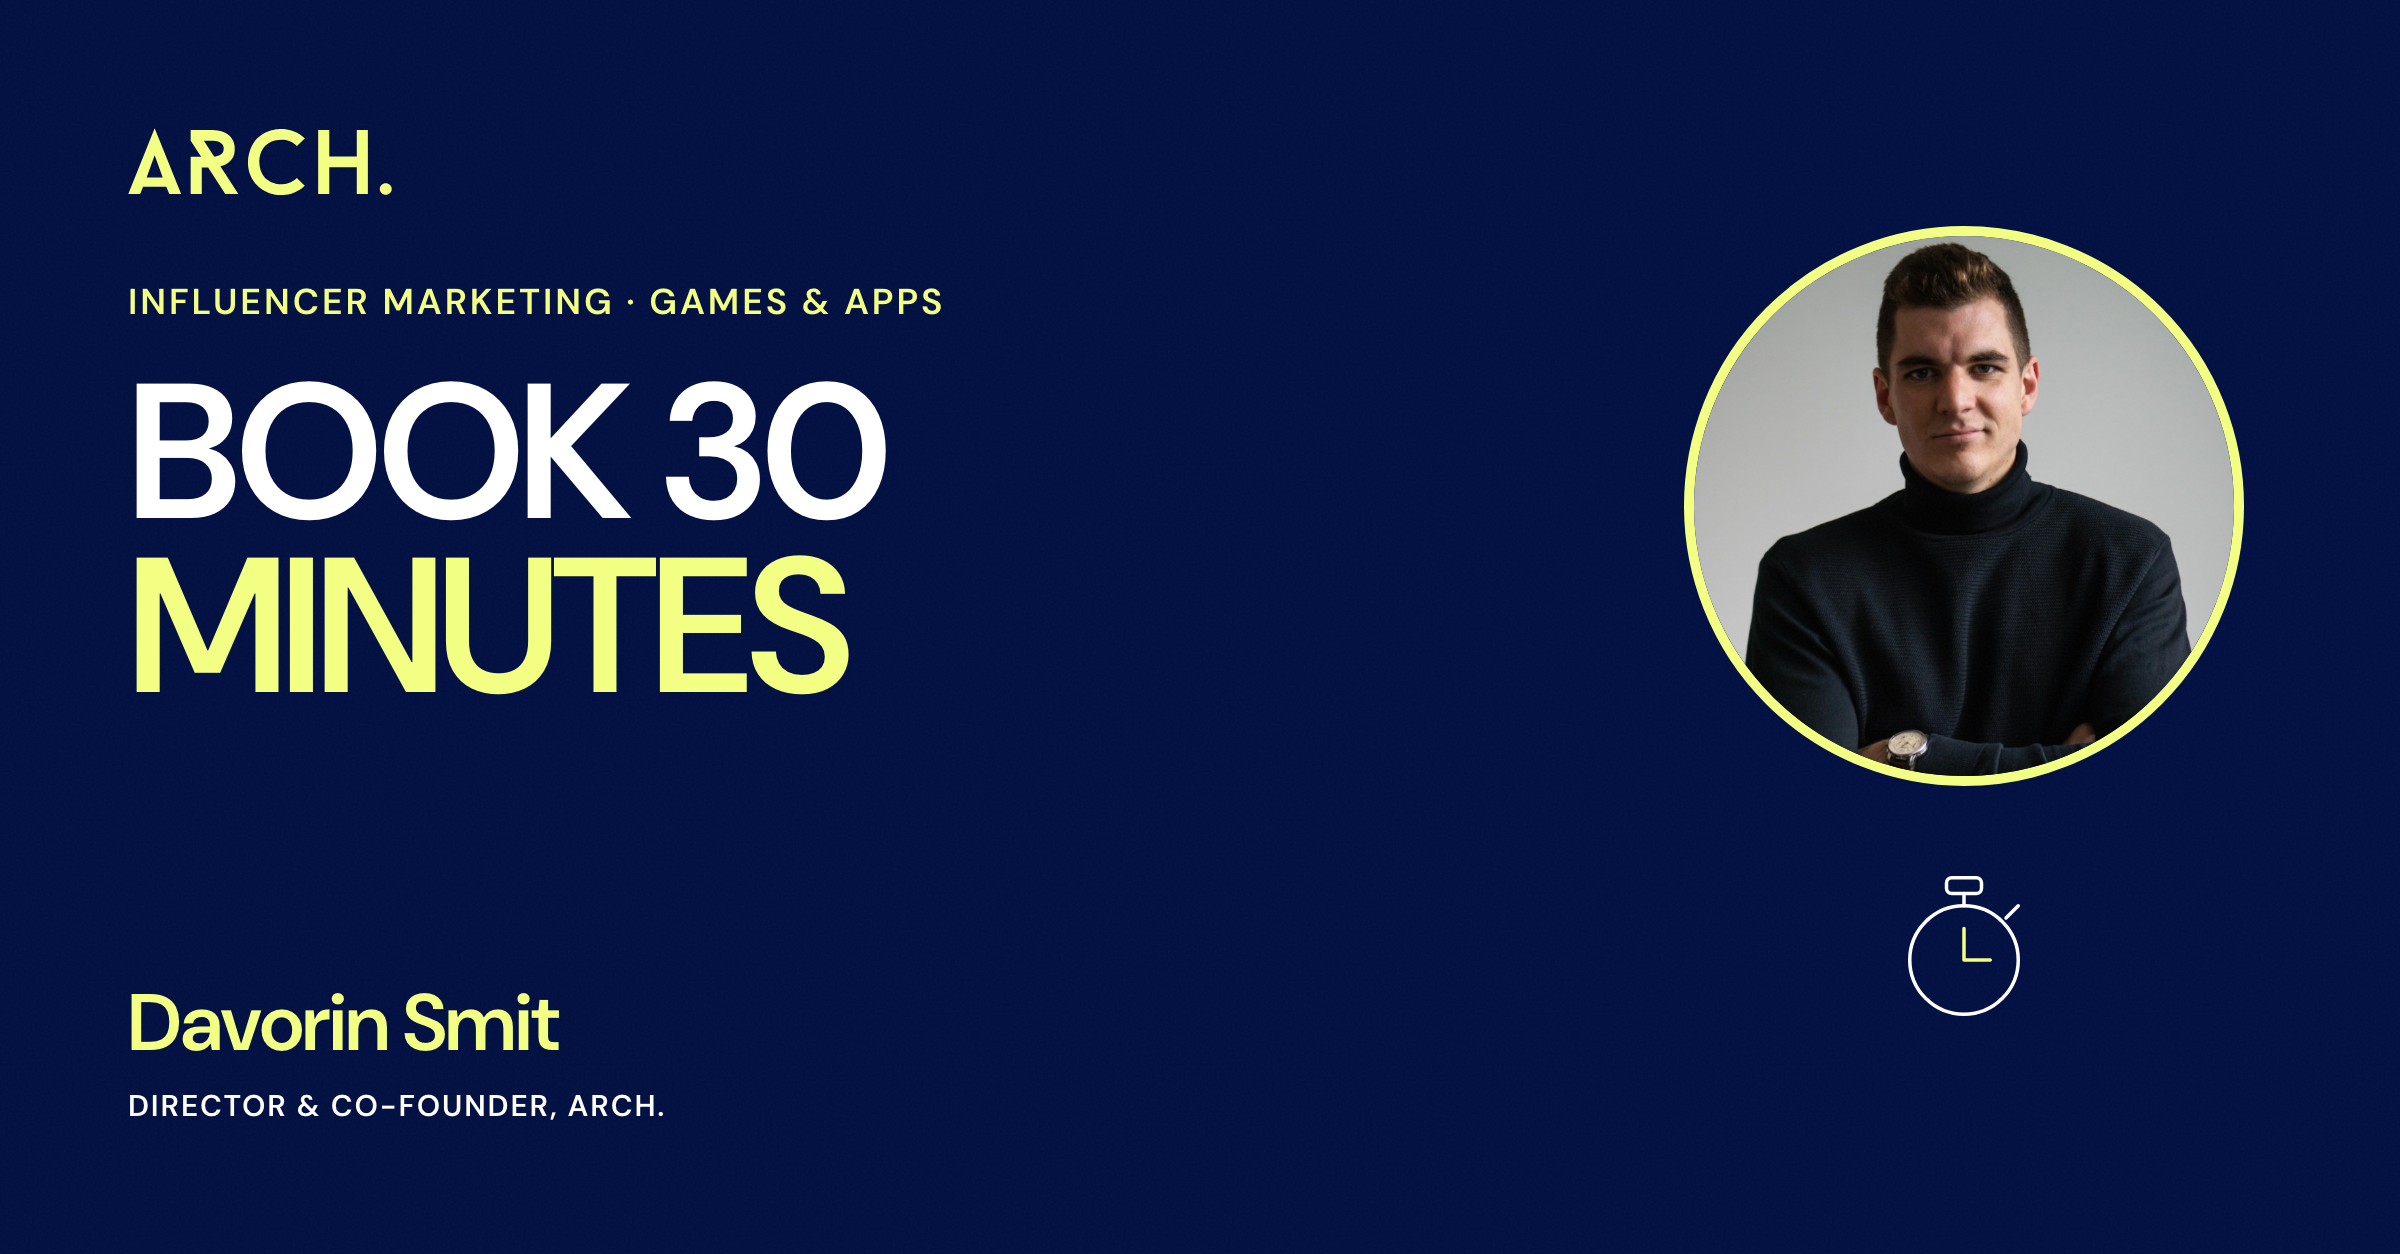
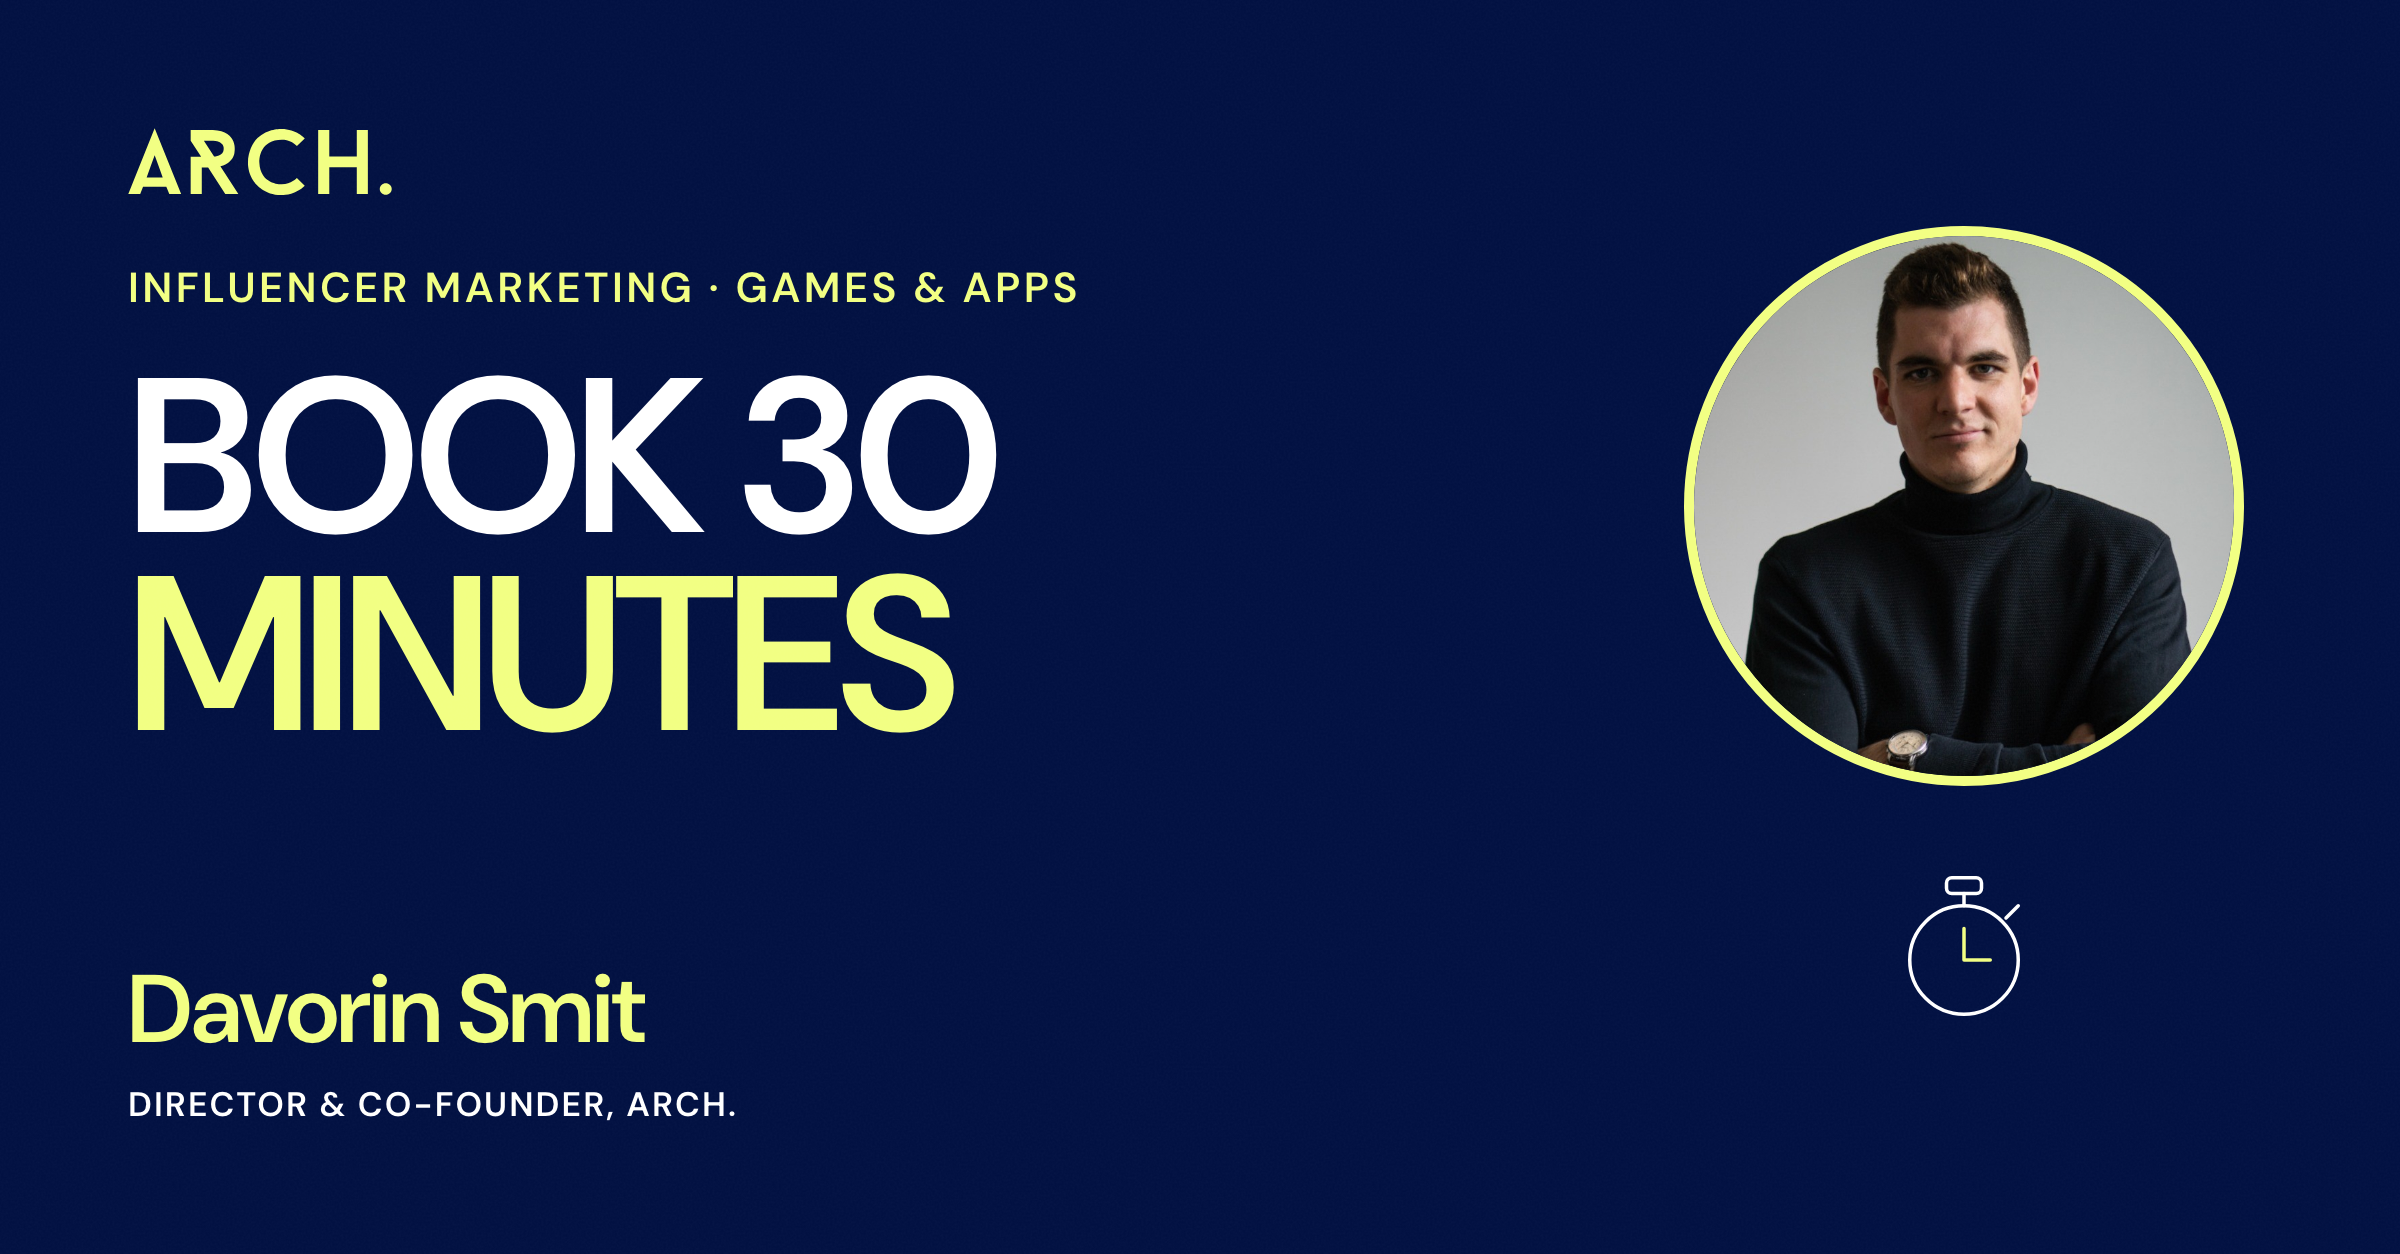
arch featured cards: bigger type + clearer titles (1500% qualifier restated, Match Masters outcome title)

diff --git a/shared/arch-profile-audit-0814.html b/shared/arch-profile-audit-0814.html
@@ -344,7 +344,7 @@ DM me the word CREATORS and I will send you the case study closest to your game<
   </figure>
   <div class="paste">
   <div class="phead"><span class="plabel">Media title</span><button class="copy" type="button" data-target="p4">Copy</button></div>
-  <pre class="ptext" id="p4">Wargaming: new users up 1500% vs regular activities</pre>
+  <pre class="ptext" id="p4">Wargaming: 1500% more new users than standard activations</pre>
 </div>
   <div class="paste">
   <div class="phead"><span class="plabel">Media description, link included</span><button class="copy" type="button" data-target="p5">Copy</button></div>
@@ -358,7 +358,7 @@ DM me the word CREATORS and I will send you the case study closest to your game<
   </figure>
   <div class="paste">
   <div class="phead"><span class="plabel">Media title</span><button class="copy" type="button" data-target="p6">Copy</button></div>
-  <pre class="ptext" id="p6">Match Masters: #1 game in 15 markets</pre>
+  <pre class="ptext" id="p6">How we carried Match Masters to #1 in 15 markets</pre>
 </div>
   <div class="paste">
   <div class="phead"><span class="plabel">Media description, link included</span><button class="copy" type="button" data-target="p7">Copy</button></div>
